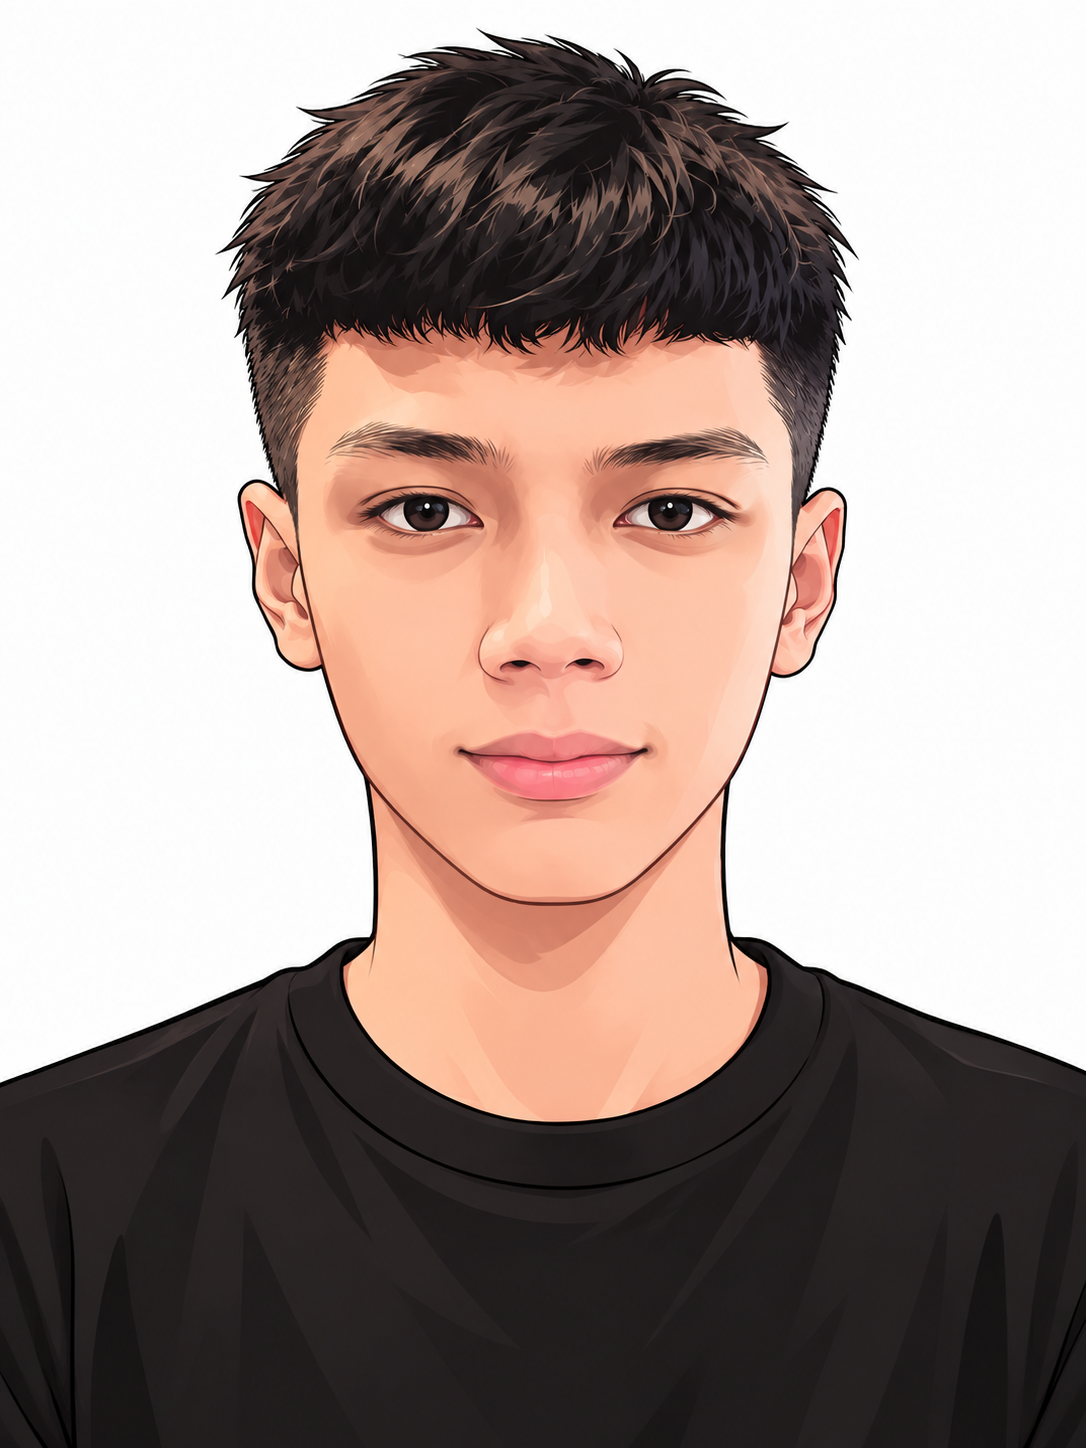
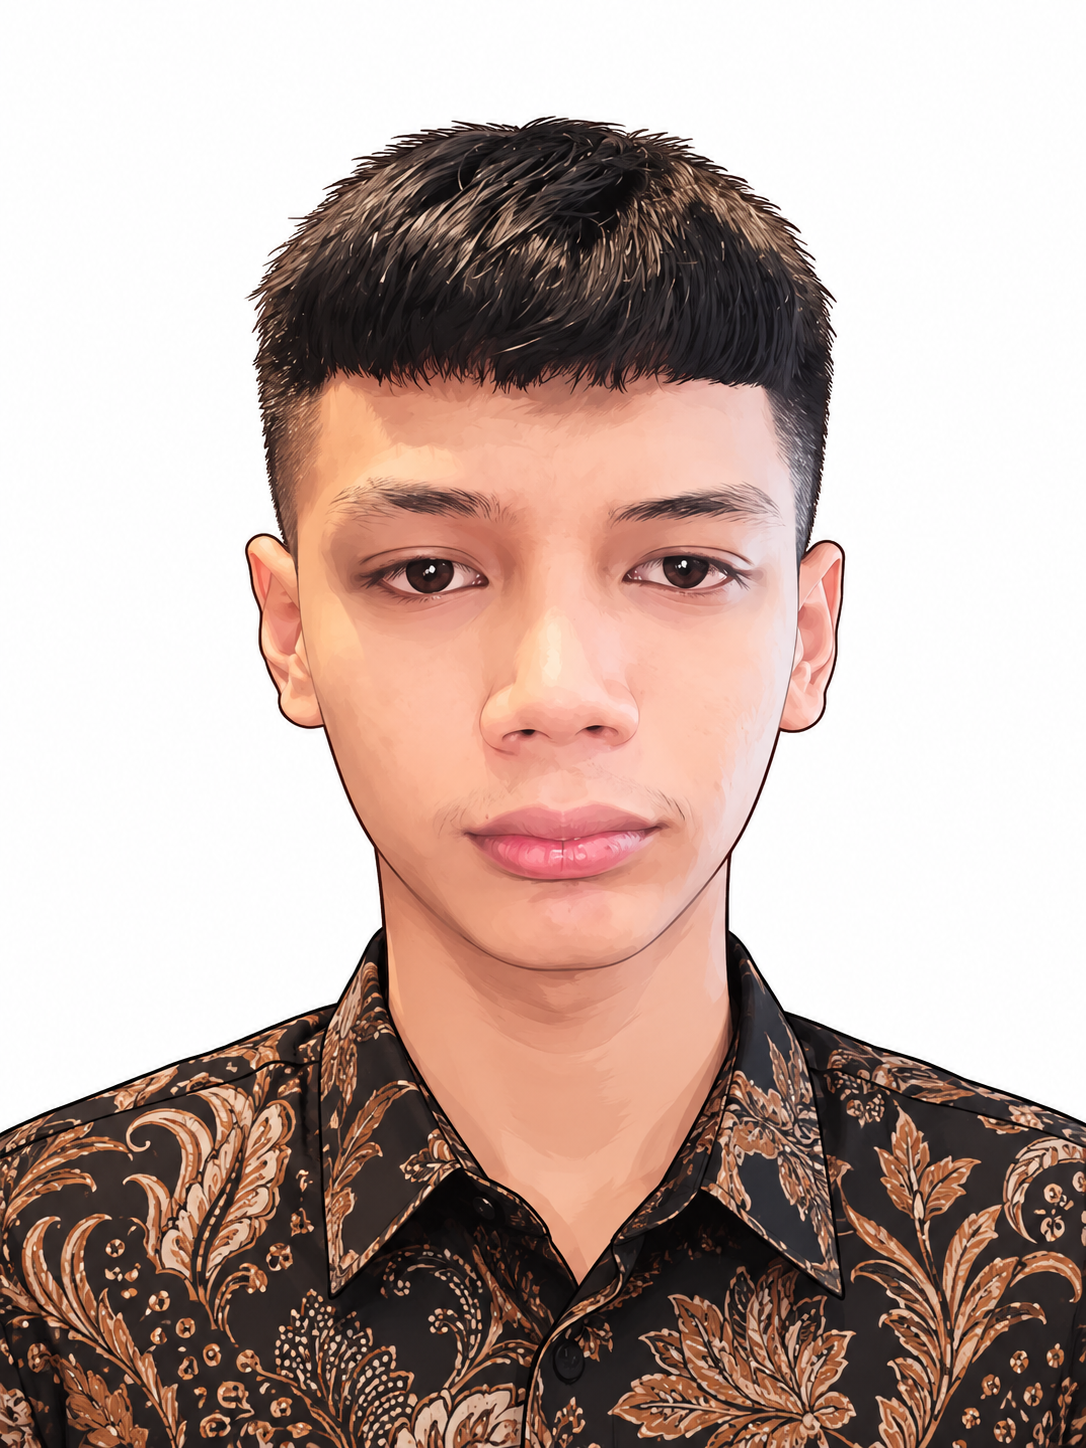
update UI and photo

diff --git a/style.css b/style.css
@@ -289,8 +289,15 @@ h1 { margin: 0 0 0 -.065em; font: 400 clamp(4.4rem, 8vw, 6rem)/.88 var(--serif);
 }
 
 @media (max-width: 420px) {
-  .certificates-section .certificate-grid { grid-template-columns: 1fr; gap: 24px; }
-  .certificates-section .certificate-art { min-height: 0; }
+  .certificates-section .certificate-grid { grid-template-columns: repeat(2, minmax(0, 1fr)); gap: 12px; }
+  .certificates-section .certificate-art { aspect-ratio: .88; min-height: 0; padding: 10px; }
+  .certificates-section .certificate-art::before { left: 23px; }
+  .certificates-section .document-seal, .certificates-section .circuit-mark { width: 36px; height: 36px; font-size: 1.05rem; }
+  .certificates-section .document-lines { gap: 6px; margin-left: 10px; }
+  .certificates-section .document-stamp { right: 7px; bottom: 8px; font-size: .65rem; }
+  .certificates-section .document-corner { top: 9px; right: 9px; width: 16px; height: 16px; }
+  .certificates-section .certificate-card figcaption { gap: 6px; margin-top: 8px; font-size: .7rem; }
+  .certificates-section .certificate-no { font-size: .7rem; }
   .education-entry { grid-template-columns: 93px minmax(0, 1fr); gap: 9px; }
   .skill-tags span { font-size: .75rem; }
 }
